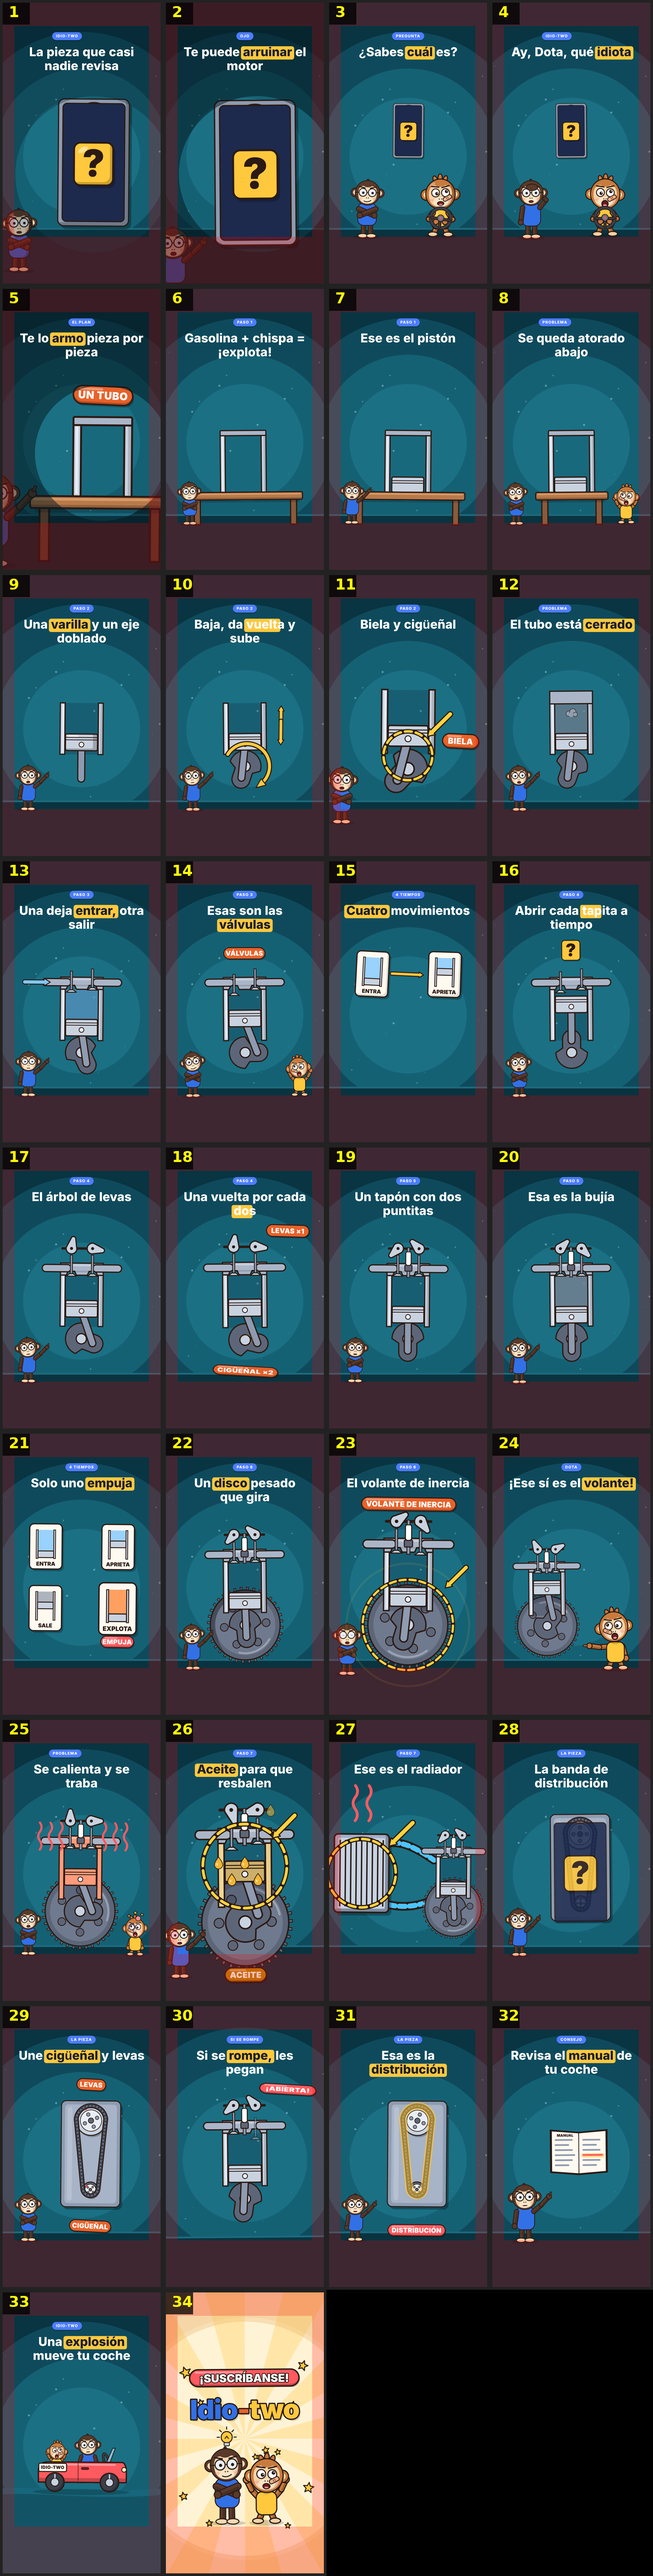
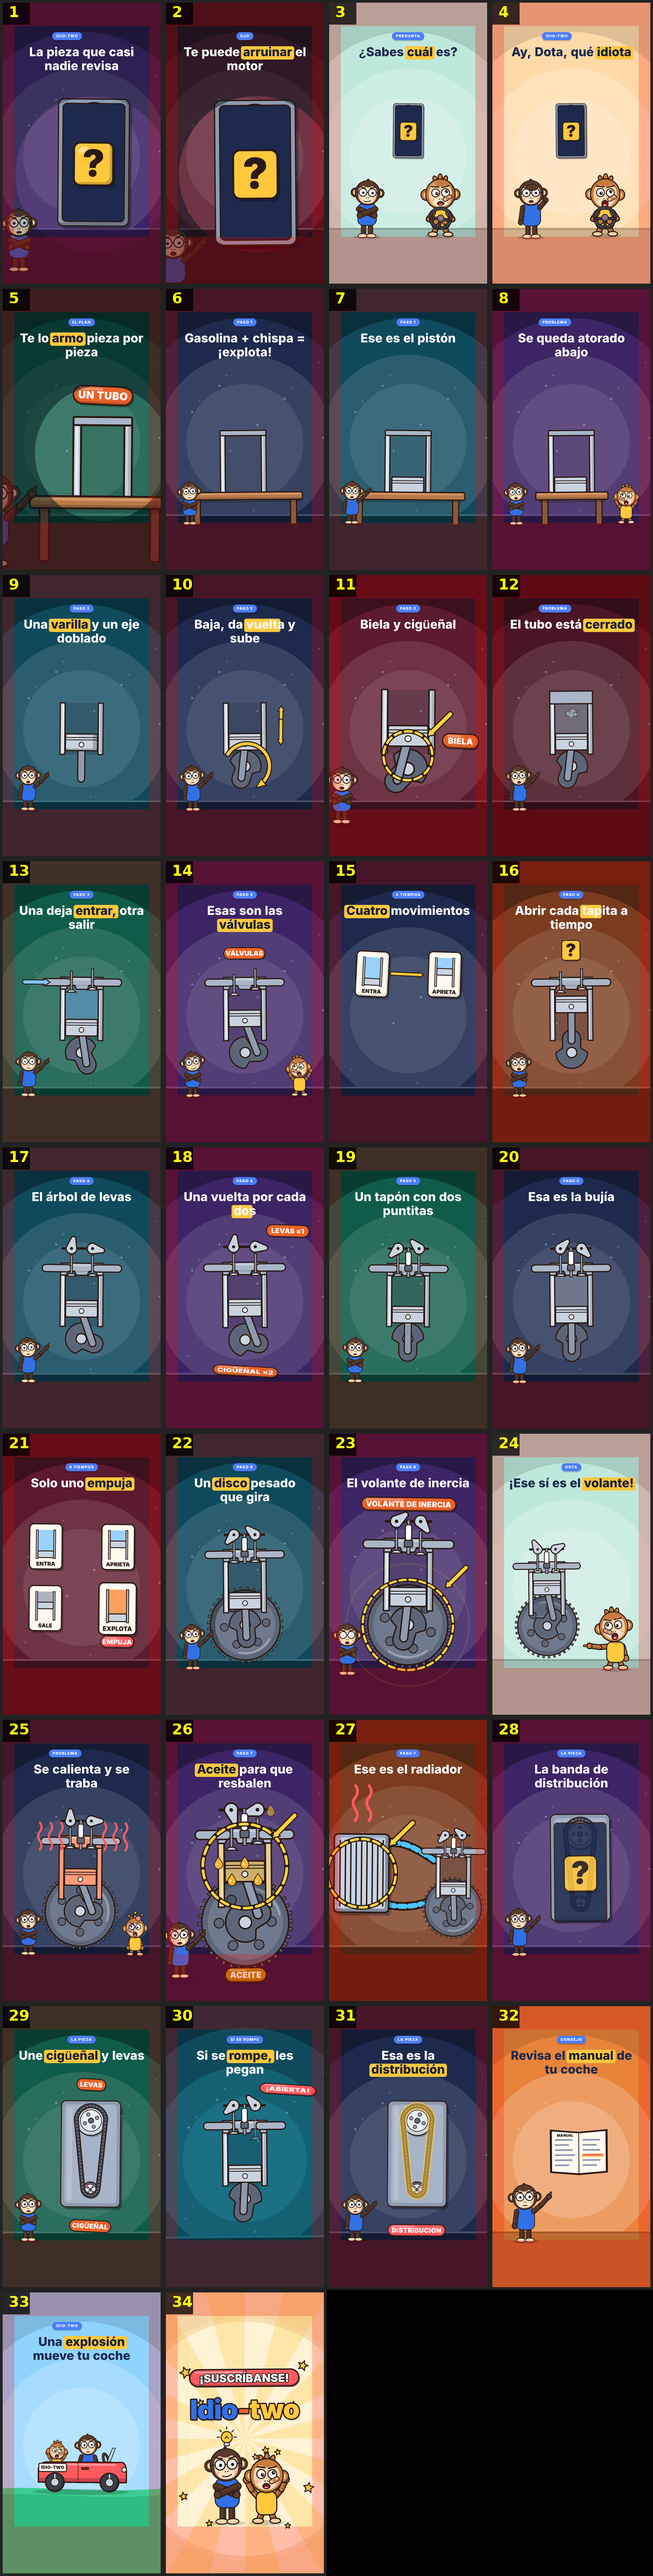
Motores: each scene gets its own plain backdrop colour, picked to contrast with what it shows
Claude-Session: https://claude.ai/code/session_01CCYL4pfB5svmsfTYwXD8rF

diff --git a/videos/motores/visuals.ts b/videos/motores/visuals.ts
@@ -20,8 +20,33 @@ const mvDotaC = (pose: MoDotaPose = 'down') => moDota('dc', 900, 1590, 0.55, pos
 const mvBurst = (body: string, over = '') => svg(`${moPrint()}<g id="cam"><g id="camP"><g id="camZ">${body}</g>${over}</g></g>`);   // every scene uses the workshop backdrop (only the ending keeps the banner)
 const mvPrint = (body: string, over = '') => svg(`${moPrint()}<g id="cam"><g id="camP"><g id="camZ">${body}</g>${over}</g></g>`);
 // every scene: the set moves (sunburst turns / dust drifts), the camera snaps in and punches on the keys, and the characters are alive
+// each scene's backdrop colour, picked to contrast with what is on screen: [base, light?] (light backgrounds get dark titles)
+const MV_BG: Record<string, [string, boolean]> = {
+  hook: ['#3d2466', false], ruin: ['#5c1a2e', false], ask: ['#bfe8dc', true], idiot: ['#ffd9a8', true],
+  armo: ['#0f5c4a', false], tube: ['#1d2a4d', false], piston: ['#0f4a5c', false], stuck: ['#3d2466', false],
+  rod: ['#0f4a5c', false], cycle: ['#1d2a4d', false], names: ['#5c1a2e', false], closed: ['#4a1626', false],
+  valves: ['#0f5c4a', false], vname: ['#3d2466', false], strokes: ['#1d2a4d', false], timing: ['#7a3b1e', false],
+  cams: ['#0f4a5c', false], ratio: ['#3d2466', false], plug: ['#0f5c4a', false], bujia: ['#1d2a4d', false],
+  onlyone: ['#5c1a2e', false], disc: ['#0f4a5c', false], inercia: ['#3d2466', false], touch: ['#bfe8dc', true],
+  heat: ['#1d2a4d', false], oil: ['#3d2466', false], rad: ['#7a3b1e', false], promised: ['#3d2466', false],
+  links: ['#0f5c4a', false], snap: ['#4a1626', false], dist: ['#1d2a4d', false], manual: ['#e8833a', true], outro: ['#8fd3ff', true],
+};
+// lighten (t > 0) or darken (t < 0) a #rrggbb colour
+function mvShade(hex: string, t: number) {
+  const n = parseInt(hex.slice(1), 16);
+  return '#' + [(n >> 16) & 255, (n >> 8) & 255, n & 255].map((c) => Math.round(t > 0 ? c + (255 - c) * t : c * (1 + t)).toString(16).padStart(2, '0')).join('');
+}
+function mvBackdrop(s: Scene, $: Mv$) {
+  const bg = MV_BG[s.id]; if (!bg) return;
+  const [b, light] = bg, at = (id: string, k: string, val: string) => document.querySelector($('#' + id))?.setAttribute(k, val);
+  at('bd0', 'fill', b); at('bd1', 'fill', mvShade(b, light ? 0.25 : 0.14)); at('bd2', 'fill', mvShade(b, light ? 0.45 : 0.24));
+  at('bd3', 'stroke', mvShade(b, light ? -0.35 : -0.6)); at('bd3', 'opacity', light ? '0.35' : '0.55');
+  at('bd4', 'fill', mvShade(b, light ? -0.18 : -0.35)); at('bd5', 'fill', mvShade(b, light ? -0.3 : 0.18));
+  const sec = document.getElementById('sc-' + s.id); if (sec) { sec.style.background = b; if (light) sec.style.setProperty('--ink', MO.navy); }
+}
 interface MvMark { k: string; dt?: number; x: number; y: number; r: number; z?: number; hold?: number; label?: string }
 function mvBase(tl: MvTl, s: Scene, $: Mv$, burst = true) {
+  mvBackdrop(s, $);
   const marks = (s as unknown as { marks?: MvMark[] }).marks || [], camZ = document.querySelector($('#camZ'));
   marks.forEach((m, i) => {
     const key = (s.keys || []).find((k) => k.id === m.k), t = (key ? key.t : s.t0 + 0.5) + (m.dt || 0), d = m.hold || 1.4;
@@ -425,7 +450,7 @@ defineVisuals({
   },
   outro: {
     bg: '#0f4a5c',
-    html: () => mvBurst(`${f2Hill('hl', 1340, '#17667b', '#0d4252', 30)}${moSmoke('ex1', 230, 1290, 0.7)}${moSmoke('ex2', 180, 1270, 0.9)}<g id="car">${moCarIdio('cr', 'tk', 'd', 540, 1250, 1.1)}${moBoom('bm', 795, 1180, 0.5)}</g>`),
+    html: () => mvBurst(`${f2Hill('hl', 1340, F2.green, F2.greenD, 30)}${moSmoke('ex1', 230, 1290, 0.7)}${moSmoke('ex2', 180, 1270, 0.9)}<g id="car">${moCarIdio('cr', 'tk', 'd', 540, 1250, 1.1)}${moBoom('bm', 795, 1180, 0.5)}</g>`),
     anim(tl, s, K, $) {
       mvBase(tl, s, $);
       moFlash(tl, $('#bm'), K('boom'), 0.4);

diff --git a/videos/motores/world.ts b/videos/motores/world.ts
@@ -212,11 +212,11 @@ function moBurst(id: string, c1 = MO.bg1, c2 = MO.bg2, cx = 540, cy = 1050, floo
     <circle cx="540" cy="1000" r="1250" fill="none" stroke="#e7a95a" stroke-width="900" opacity="0.28"/><circle cx="540" cy="1000" r="980" fill="none" stroke="#e7a95a" stroke-width="300" opacity="0.14"/>
     ${floor ? '<rect x="0" y="1520" width="1080" height="400" fill="#f1c98a"/><rect x="0" y="1520" width="1080" height="16" fill="#e2ad6a"/><rect x="0" y="1600" width="1080" height="320" fill="#000" opacity="0.05"/>' : ''}`;
 }
-function moPrint() {   // the workshop backdrop: deep petrol blue, plain (no lines), a soft spotlight behind the pieces, dark corners and a floor
+function moPrint() {   // the plain backdrop (its colours are set per scene in visuals.ts, MV_BG): plain (no lines), a soft spotlight behind the pieces, dark corners and a floor
   const dust = [...Array(18)].map((_, i) => `<circle cx="${(i * 211) % 1080}" cy="${520 + ((i * 337) % 1100)}" r="${3 + (i % 3) * 2}" fill="#bff0f7" opacity="${0.2 + (i % 3) * 0.1}"/>`).join('');
-  return `<rect width="1080" height="1920" fill="#0f4a5c"/><circle cx="540" cy="1050" r="600" fill="#17667b" opacity="0.8"/><circle cx="540" cy="1050" r="400" fill="#1f7a8f" opacity="0.6"/>
-    <circle cx="540" cy="1000" r="1250" fill="none" stroke="#06232d" stroke-width="900" opacity="0.55"/>
-    <rect x="0" y="1540" width="1080" height="380" fill="#0a3340"/><rect x="0" y="1540" width="1080" height="12" fill="#1d6a7d"/><g class="dust">${dust}</g>`;
+  return `<rect id="bd0" width="1080" height="1920" fill="#0f4a5c"/><circle id="bd1" cx="540" cy="1050" r="600" fill="#17667b" opacity="0.8"/><circle id="bd2" cx="540" cy="1050" r="400" fill="#1f7a8f" opacity="0.6"/>
+    <circle id="bd3" cx="540" cy="1000" r="1250" fill="none" stroke="#06232d" stroke-width="900" opacity="0.55"/>
+    <rect id="bd4" x="0" y="1540" width="1080" height="380" fill="#0a3340"/><rect id="bd5" x="0" y="1540" width="1080" height="12" fill="#1d6a7d"/><g class="dust">${dust}</g>`;
 }
 // dust drifts up slowly in the blueprint set
 const moDust = (tl: gsap.core.Timeline, $: (q: string) => string, s: Scene) =>
